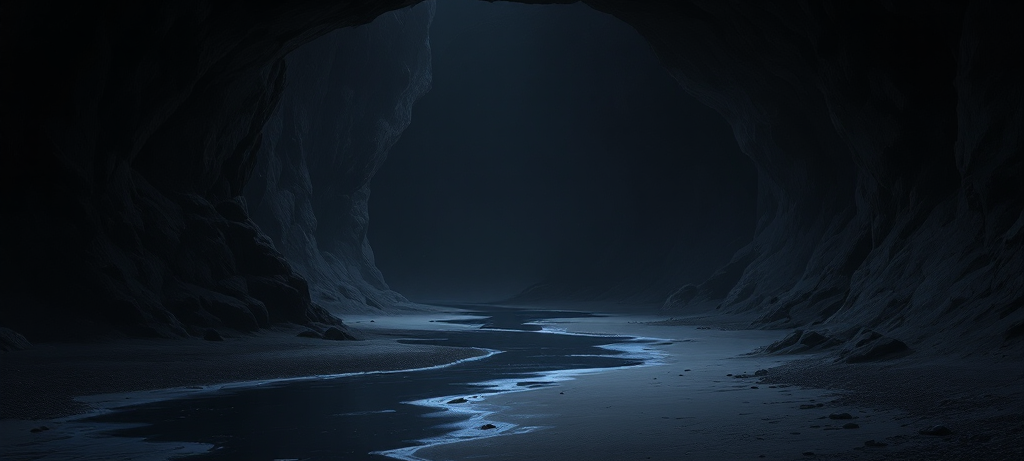
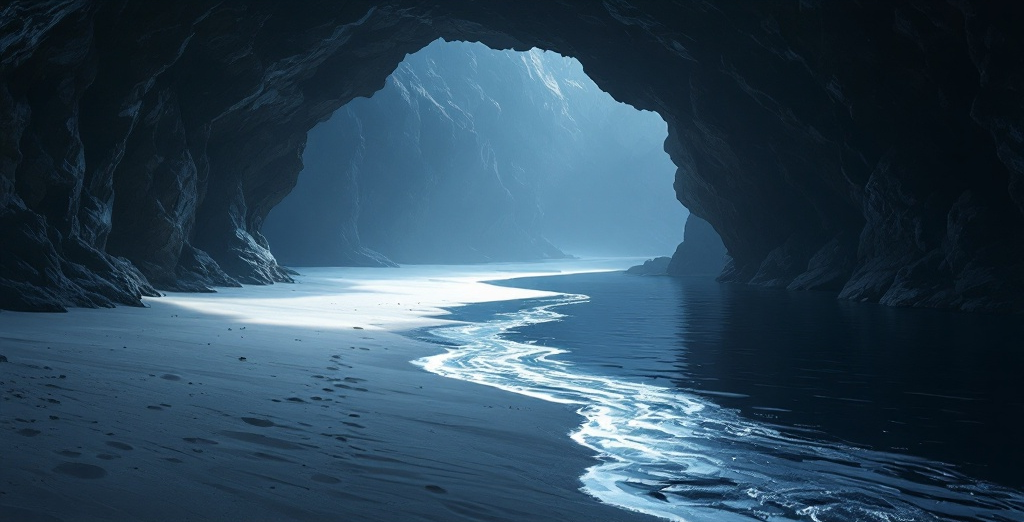
fix: north/south beach repainted to match the Middle Beach idiom
South Beach (user report) was a near-black cave; North Beach was an
open-sky coastal morning — wrong in the other direction (we are
underground). Both re-shot in room 7's phosphorescent-cavern language,
south beach mirrored so the river runs on the east as the text says.
Grottoes audited and kept. Room-art version a=3.

diff --git a/server/routes/game.js b/server/routes/game.js
@@ -977,7 +977,7 @@ function roomResponse({ adventure, run, character, text = null, prefix = null, e
     events,
     text: prefix ? `${prefix}\n\n${body}` : body,
     choices: choicesForRun(adventure, run, character),
-    state: { phase: 'adventure', locationTitle: room?.name ?? adventure?.adventure?.name ?? 'Adventure', background: `scenes/${adventure?.adventure?.id}/room-${room?.room_number}.png?a=2`, character, adventureRun: run, room, entities, items: withReadState(items, run), combat: combatStateFor({ adventure, run, character }), map: mapFor(adventure, run, character) },
+    state: { phase: 'adventure', locationTitle: room?.name ?? adventure?.adventure?.name ?? 'Adventure', background: `scenes/${adventure?.adventure?.id}/room-${room?.room_number}.png?a=3`, character, adventureRun: run, room, entities, items: withReadState(items, run), combat: combatStateFor({ adventure, run, character }), map: mapFor(adventure, run, character) },
   });
 }
 
